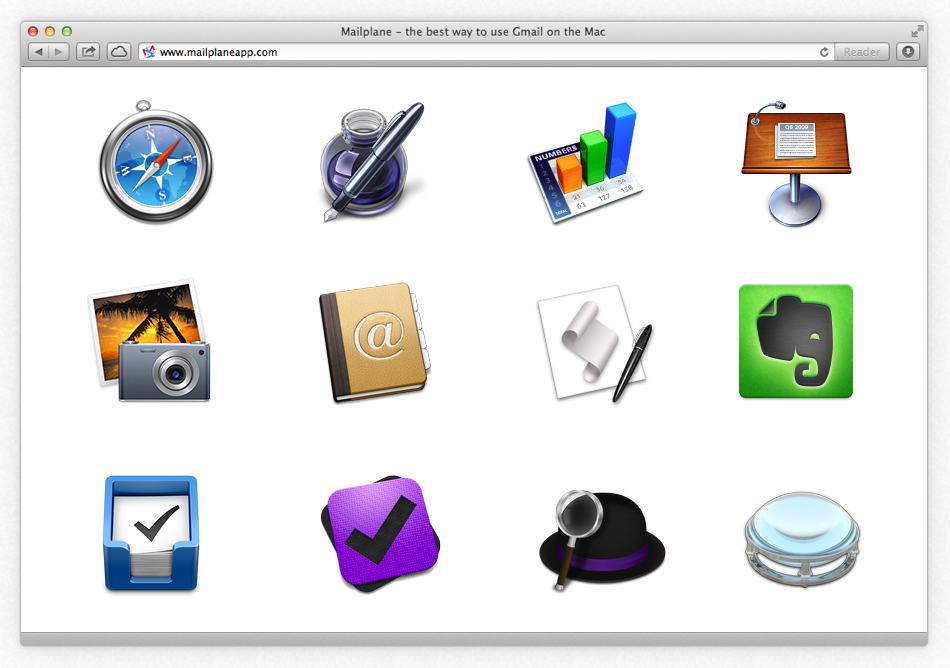
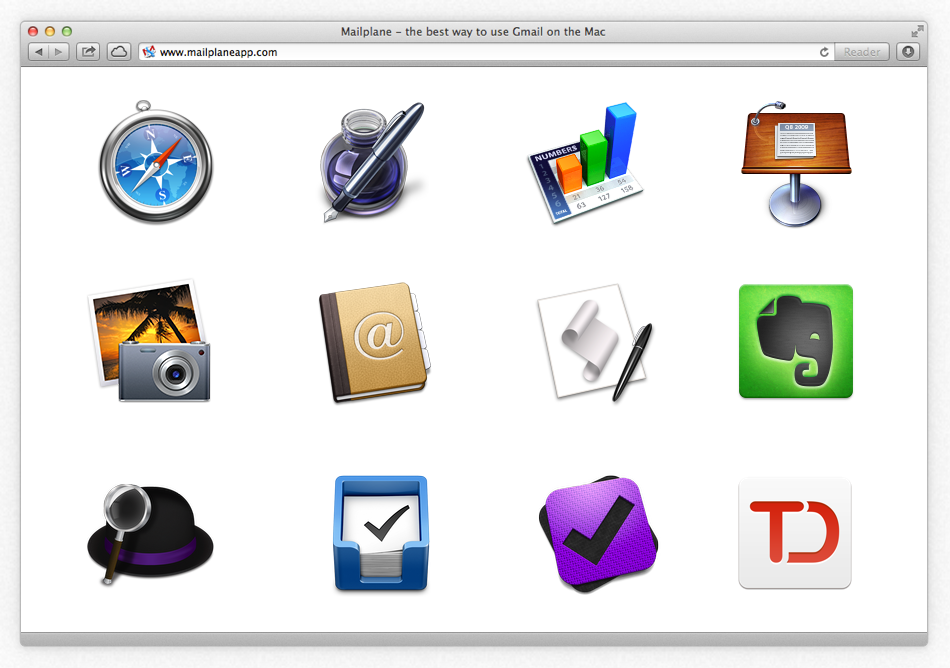
Added Todoist

diff --git a/_posts/help/2014-01-22-mailplane_vs_chrome.html b/_posts/help/2014-01-22-mailplane_vs_chrome.html
@@ -138,6 +138,11 @@ tags:
 		<td class="noTick"/>
 	</tr>
 	<tr>  
+		<td>Create an Todoist to-do items. <a href="/help/todoist.html">Learn more</a></td>
+		<td class="tick"/>
+		<td class="tick"/>
+	</tr>
+	<tr>  
 		<td>Create a multi account sensitive link (mailplane://...) to a message, searches, labels, etc.</td>
 		<td class="tick"/>
 		<td class="noTick"/>
